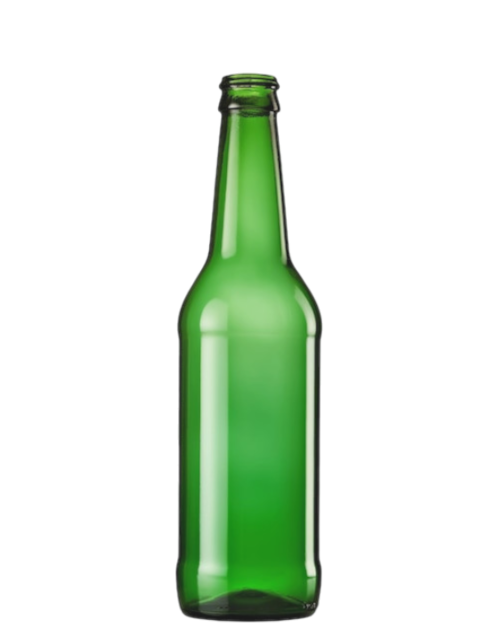
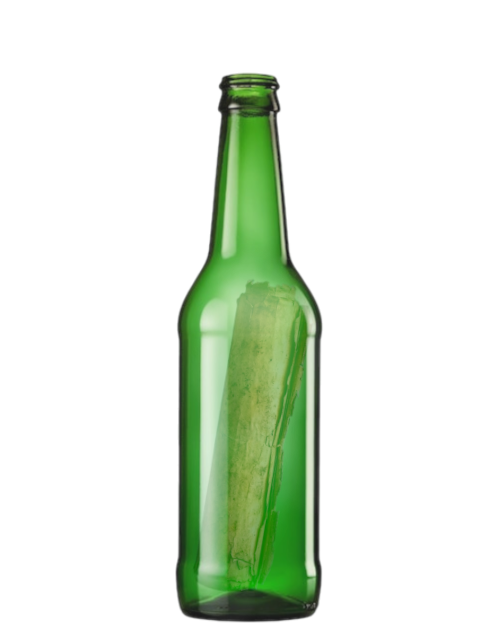
changed photos and made text

Changed region(s): [[0.42, 0.4249, 0.63, 0.9409]]

diff --git a/lib/screens/greetings_screen.dart b/lib/screens/greetings_screen.dart
@@ -2,6 +2,10 @@ import 'package:flutter/material.dart';
 import 'package:shake/shake.dart';
 import 'dart:async';
 
+String text1 = "Привет, Ксюша, поздравляю тебя с днём рождения, хочу пожелать тебе, чтобы каждый день начинался с улыбки, рядом были только добрые люди, а сердце всегда знало, куда идти. Пусть сбываются мечты — даже те, о которых ты ещё никому не рассказывала. Оставайся такой же яркой, доброй и невероятной. Желаю тебе море поводов для радости, океан любви и горы денег. Пусть проблемы обходят стороной, настроение будет как после отпуска, а подруги — всегда на связи. Желаю тебе не бояться быть собой, смело идти к своим целям и помнить, что ты способна на всё. Пусть этот год станет временем больших возможностей, приятных перемен и искреннего счастья. Я горжусь тобой и всегда поддержу! Ты лучшая, и точка!";
+String text2 = "Yes";
+
+
 class Letter extends StatefulWidget // widget of loading screen
 {
   const Letter({super.key});
@@ -19,11 +23,13 @@ class _Letter extends State<Letter>
   late ShakeDetector _shakeDetector;
   bool capOpened = false;
   double bottleOpacity = 0;
+  int page = 1;
 
   @override
   void initState()
   {
     super.initState();
+    WidgetsBinding.instance.addPostFrameCallback((_){});
     _shakeDetector = ShakeDetector.autoStart(
       onPhoneShake: (event) {
         if (mounted)
@@ -35,6 +41,9 @@ class _Letter extends State<Letter>
           {
             upplyTimers();
             _shakeDetector.stopListening();
+            setState((){
+              capOpened = true;
+            });
           }
         }
       },
@@ -49,6 +58,19 @@ class _Letter extends State<Letter>
   {
     _shakeDetector.stopListening();
     super.dispose();
+  }
+
+  Future<void> preloadImages() async
+  {
+    if (mounted)
+    {
+      final context = this.context;
+      await precacheImage(const AssetImage("lib/Images/bottle.png"), context);
+      await precacheImage(const AssetImage("lib/Images/bottleWithCap.png"), context);
+      await precacheImage(const AssetImage("lib/Images/SandAndWater.webp"), context);
+      await precacheImage(const AssetImage("lib/Images/BottleCap.png"), context);
+      await precacheImage(const AssetImage("lib/Images/Papirus.png"), context);
+    }
   }
 
   Future<void> upplyTimers() async
@@ -117,6 +139,17 @@ class _Letter extends State<Letter>
               width: 1000),
           ],
         ),
+        Align(
+          alignment: .topCenter,
+          child: Text(
+            "Потряси телефон что бы открыть бутылку",
+            style: TextStyle(
+              color: const Color.fromARGB(255, 7, 10, 36),
+              fontFamily: "JulyMelt",
+              fontSize: 24
+            ),
+            ),
+        ),
         Positioned.fill(
           child: Center(
             child: AnimatedOpacity(
@@ -131,14 +164,27 @@ class _Letter extends State<Letter>
                 height: MediaQuery.of(context).size.height,
                 child: Padding(
                   padding: const EdgeInsets.all(100.0),
-                  child: Text(
-                        "Привет мамочка! Я каждый день мечтал об этом слове, и вот он наконец, вспоминает об уходеее!",
-                        style: TextStyle(
-                          fontFamily: "Kosmos",
-                          fontSize: 24,
-                          color: const Color.fromARGB(255, 46, 8, 30)
-                        )
-                      ),
+                  child: OutlinedButton(
+                    style: ButtonStyle(
+                      backgroundColor: WidgetStatePropertyAll(const Color.fromARGB(0, 0, 0, 0)),
+                      foregroundColor: WidgetStatePropertyAll(const Color.fromARGB(0, 0, 0, 0)),
+                      elevation: WidgetStatePropertyAll(0),
+                      shape: WidgetStatePropertyAll(BeveledRectangleBorder(borderRadius: BorderRadiusGeometry.all(Radius.zero)))
+                    ),
+                    onPressed: (){
+                      setState(() {
+                        page += 1;
+                      });
+                    },
+                    child: Text(
+                          page == 1 ? text1 : text2,
+                          style: TextStyle(
+                            fontFamily: "Kosmos",
+                            fontSize: 18,
+                            color: const Color.fromARGB(255, 46, 8, 30)
+                          )
+                        ),
+                  ),
                 )
               ),
             ),
